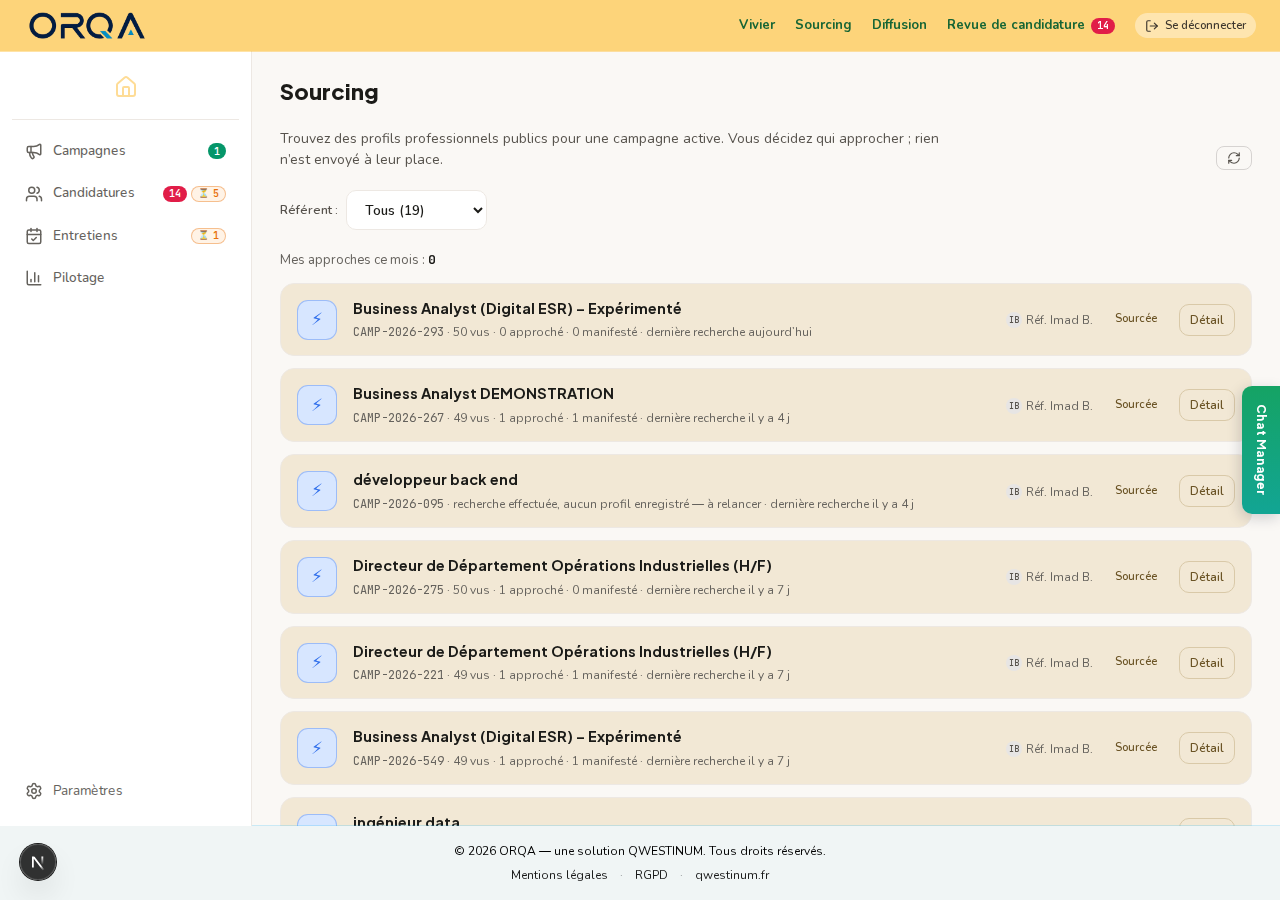
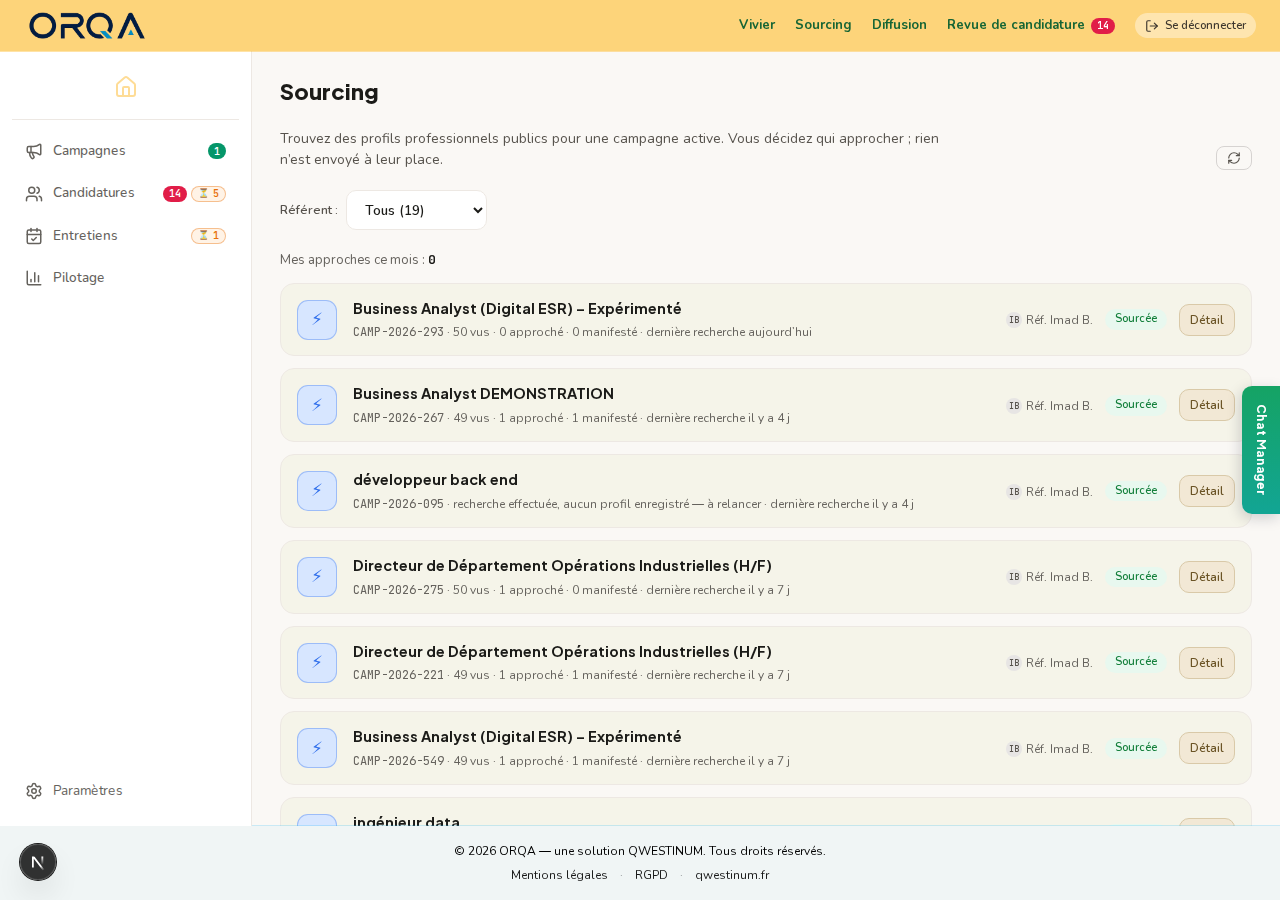
fix(ux): Sourcing — surbrillance #F5F4E9, « Sourcée » en vert, « Sourcer » en ambre plein
Les quatre teintes demandées, appliquées et mesurées :

  · SURBRILLANCE `#F5F4E9` (`--dash-surbrillance`) sur les campagnes déjà
    sourcées — 1,11:1 contre la carte blanche voisine, la nuance la plus
    discrète du produit. Le texte y garde 15,62:1.
  · « Détail » GARDE sa teinte beige : c'est une consultation.
  · « Sourcée » passe au VERT. Pastille d'état du produit — fond clair,
    encre `--dash-green-text` : 4,56:1, AA. Le vert de marque n'aurait
    donné que 2,68 sur ce fond.
  · « Sourcer » en aplat PLEIN `#ac7c02` (`--dash-ambre-action`), texte
    blanc. C'est le seul aplat plein de l'écran, et c'est voulu : les
    deux gestes ne pèsent pas pareil — « Détail » consulte, « Sourcer »
    ENGAGE UNE DÉPENSE (un appel au moteur de profils, facturé). Deux
    gestes au même poids visuel feraient cliquer sur le second en croyant
    ouvrir le premier.

⚠ MESURE À VOTRE ARBITRAGE : blanc sur `#ac7c02` donne **3,72:1**, sous
les 4,5:1 d'un texte de 12 px semi-gras (le seuil « grand texte »
commence à 18,66 px gras, pas à « en gras »). C'est la teinte demandée et
je l'applique ; dans la même famille, `#9a6f02` passerait tout juste
(4,52) et `#8a6402` confortablement (5,38).

Garde : le rendu des deux boutons et de la surbrillance est vérifié.

⚠ Première version de cette garde : `toContain('var(--dash-ambre-action)')`.
SONDÉE, elle est restée VERTE quand j'ai remplacé le fond par du beige —
la BORDURE portait encore le même jeton. Une garde qui cherche un mot
[…]

diff --git a/src/components/sourcing/SourcingCampaignList.tsx b/src/components/sourcing/SourcingCampaignList.tsx
@@ -3,11 +3,15 @@
 /**
  * LES CAMPAGNES ACTIVES, et ce que le sourcing y a déjà fait.
  *
- * ⚠ SURBRILLANCE BEIGE pour les campagnes déjà sourcées. Elles portaient un
- * aplat AMBRE avec un filet de 3 px : l'ambre est la couleur des alertes du
- * produit, et une campagne sourcée n'a rien d'alarmant. Le beige est une
- * NUANCE — 1,22:1 sur le blanc, comme les teintes de registre d'Aujourd'hui :
- * on voit le groupe sans que la ligne crie.
+ * ⚠ SURBRILLANCE pour les campagnes déjà sourcées. Elles portaient un aplat
+ * AMBRE avec un filet de 3 px : l'ambre est la couleur des alertes du produit,
+ * et une campagne sourcée n'a rien d'alarmant. `--dash-surbrillance` est la
+ * nuance la plus discrète du produit — 1,11:1 contre la carte blanche
+ * voisine : on voit le groupe sans que la ligne crie.
+ *
+ * ⚠ Les deux gestes ne pèsent pas pareil, et leur couleur le dit : « Détail »
+ * est une consultation (beige, secondaire), « Sourcer » ENGAGE UNE DÉPENSE
+ * (aplat ambre plein, texte blanc) — c'est le seul aplat plein de l'écran.
  *
  * ⚠ Le geste diffère aussi : une campagne déjà sourcée propose « Détail »
  * (on y revient pour voir, pas pour relancer), une campagne vierge propose
@@ -102,7 +106,7 @@ export function SourcingCampaignList({
                   testId={c.campaignId}
                   // La LIGNE est teintée, pas un liseré autour : posé en
                   // bordure d'un pixel, le beige ne se voyait pas.
-                  tint={sourcee ? 'var(--dash-beige)' : undefined}
+                  tint={sourcee ? 'var(--dash-surbrillance)' : undefined}
                   // Une CAMPAGNE : l'icône de campagne, pas un pavé
                   // d'initiales — il n'y a personne sur cette ligne.
                   avatar={<CampaignIcon kind="active" taille={40} />}
@@ -118,11 +122,13 @@ export function SourcingCampaignList({
                         <ReferentMention referent={c.referent} />
                       </span>
                       {sourcee ? (
+                        // La pastille d'état du produit : fond clair, encre
+                        // sombre de la même famille. Mesuré 4,56:1 — AA.
                         <span
                           className="shrink-0 whitespace-nowrap rounded-full px-2.5 py-0.5 font-body text-[11px] font-semibold"
                           style={{
-                            background: 'var(--dash-beige)',
-                            color: 'var(--dash-beige-encre)',
+                            background: 'var(--dash-green-light)',
+                            color: 'var(--dash-green-text)',
                           }}
                         >
                           Sourcée
@@ -133,11 +139,19 @@ export function SourcingCampaignList({
                         data-sourcing-action={sourcee ? 'detail' : 'sourcer'}
                         onClick={() => onSource(c.campaignId)}
                         className="rounded-lg border px-2.5 py-1.5 font-body text-[12px] font-semibold"
-                        style={{
-                          borderColor: 'var(--dash-beige-bord)',
-                          background: 'var(--dash-beige)',
-                          color: 'var(--dash-beige-encre)',
-                        }}
+                        style={
+                          sourcee
+                            ? {
+                                borderColor: 'var(--dash-beige-bord)',
+                                background: 'var(--dash-beige)',
+                                color: 'var(--dash-beige-encre)',
+                              }
+                            : {
+                                borderColor: 'var(--dash-ambre-action)',
+                                background: 'var(--dash-ambre-action)',
+                                color: '#fff',
+                              }
+                        }
                       >
                         {sourcee ? 'Détail' : 'Sourcer'}
                       </button>

diff --git a/src/components/sourcing/__tests__/results-screen.test.tsx b/src/components/sourcing/__tests__/results-screen.test.tsx
@@ -234,6 +234,38 @@ describe('campagnes déjà sourcées', () => {
     expect(fresh).toContain('>Sourcer<');
   });
 
+  it('les deux gestes ne pèsent pas pareil, et leur couleur le dit', () => {
+    // ⚠ « Détail » est une CONSULTATION : beige, secondaire. « Sourcer »
+    // ENGAGE UNE DÉPENSE (un appel au moteur de profils, facturé) : c'est le
+    // seul aplat PLEIN de l'écran. Deux gestes au même poids visuel feraient
+    // cliquer sur le second en croyant ouvrir le premier.
+    const html = renderToStaticMarkup(
+      <SourcingCampaignList
+        campaigns={[
+          { ...base, campaignId: 'CAMP-1', lastSearchAt: '2026-09-12T10:00:00Z' },
+          { ...base, campaignId: 'CAMP-2', lastSearchAt: null },
+        ]}
+        myApproachesThisMonth={0}
+        onSource={() => {}}
+      />,
+    );
+    const [sourced, fresh] = html.split('<li').slice(1);
+    // La ligne déjà sourcée est en surbrillance, et son bouton reste beige.
+    expect(sourced).toContain('var(--dash-surbrillance)');
+    expect(sourced).toContain('var(--dash-beige)');
+    // Sa pastille d'état est VERTE, pas beige.
+    expect(sourced).toContain('var(--dash-green-text)');
+    // La campagne vierge n'est pas en surbrillance, et son bouton est PLEIN.
+    //
+    // ⚠ On vérifie le FOND, pas la présence du jeton. Première version :
+    // `toContain('var(--dash-ambre-action)')` — elle est restée VERTE quand
+    // j'ai remplacé le fond par du beige, parce que la bordure portait encore
+    // le même jeton. Une garde qui cherche un mot n'importe où ne garde rien.
+    expect(fresh).toContain('background:var(--dash-ambre-action)');
+    expect(fresh).toContain('color:#fff');
+    expect(sourced).toContain('background:var(--dash-beige)');
+  });
+
   it('on atterrit sur les résultats : « Relancer une recherche », sans écran de requête (qui rédigerait une requête pour rien)', () => {
     const sourced = renderToStaticMarkup(<SourcingCampaignView campaign={{ ...base, campaignId: 'CAMP-1', lastSearchAt: '2026-09-12T10:00:00Z' }} onBack={() => {}} />);
     expect(sourced).toContain('Relancer une recherche');

diff --git a/src/app/globals.css b/src/app/globals.css
@@ -297,14 +297,24 @@
      de 13 px, fût-il gras (le seuil « grand texte » commence à 18,66 px gras).
      Celui-ci donne 5,19:1. */
   --dash-green-bandeau: #166534;
-  /* BEIGE SOBRE — la surbrillance d'une ligne déjà sourcée, et la teinte des
-     boutons qui étaient noirs. Mesuré : 1,22:1 sur le blanc et 1,15 sur le
-     sand — une NUANCE, pas une couleur, exactement comme les teintes de
-     registre d'Aujourd'hui. Le texte du produit y garde 14,20:1, et l'encre
-     beige 5,91:1 : les deux passent AA largement. */
+  /* BEIGE — la teinte des boutons qui étaient noirs (« Détail »,
+     « Relancer », « Lancer »). Encre à 5,91:1 dessus : AA largement. */
   --dash-beige: #f2e8d5;
   --dash-beige-bord: #d9c9a8;
   --dash-beige-encre: #6b5426;
+
+  /* SURBRILLANCE d'une ligne déjà traitée. Mesuré : 1,11:1 contre la carte
+     blanche voisine — c'est une NUANCE, la plus discrète du produit, et c'est
+     ce qui est demandé. Le texte y garde 15,62:1. */
+  --dash-surbrillance: #f5f4e9;
+
+  /* L'AMBRE du bouton « Sourcer » — le seul geste qui ENGAGE une dépense sur
+     cet écran, d'où un aplat plein là où tout le reste est en nuance.
+     ⚠ Mesuré : blanc dessus = 3,72:1, sous les 4,5:1 d'un texte de 12 px
+     semi-gras (le seuil « grand texte » commence à 18,66 px gras). C'est la
+     teinte demandée ; #9a6f02 passerait tout juste (4,52) et #8a6402
+     confortablement (5,38). */
+  --dash-ambre-action: #ac7c02;
   --dash-yellow-light: #fff8e1;
 }
 

diff --git a/src/components/ui/tokens.ts b/src/components/ui/tokens.ts
@@ -86,12 +86,18 @@ export const COULEUR = {
   /** Une surface tiède : sélection, zone de réglage, en-tête de groupe. */
   surfaceTiede: 'var(--dash-warm)',
   /**
-   * BEIGE — une ligne déjà traitée, ou une zone qu'on met en évidence sans
-   * l'alarmer. 1,22:1 sur le blanc : une nuance, pas une couleur.
+   * BEIGE — la teinte des boutons secondaires qui étaient noirs, et des zones
+   * qu'on met en évidence sans les alarmer. 1,22:1 sur le blanc.
    */
   beige: 'var(--dash-beige)',
   beigeBord: 'var(--dash-beige-bord)',
   beigeEncre: 'var(--dash-beige-encre)',
+  /**
+   * SURBRILLANCE d'une ligne déjà traitée — la nuance la plus discrète du
+   * produit (1,11:1 contre la carte blanche voisine). Elle marque un GROUPE,
+   * jamais un état individuel.
+   */
+  surbrillance: 'var(--dash-surbrillance)',
   /** Le survol d'une surface. */
   survol: 'var(--dash-hover)',
   texte: 'var(--dash-text)',
